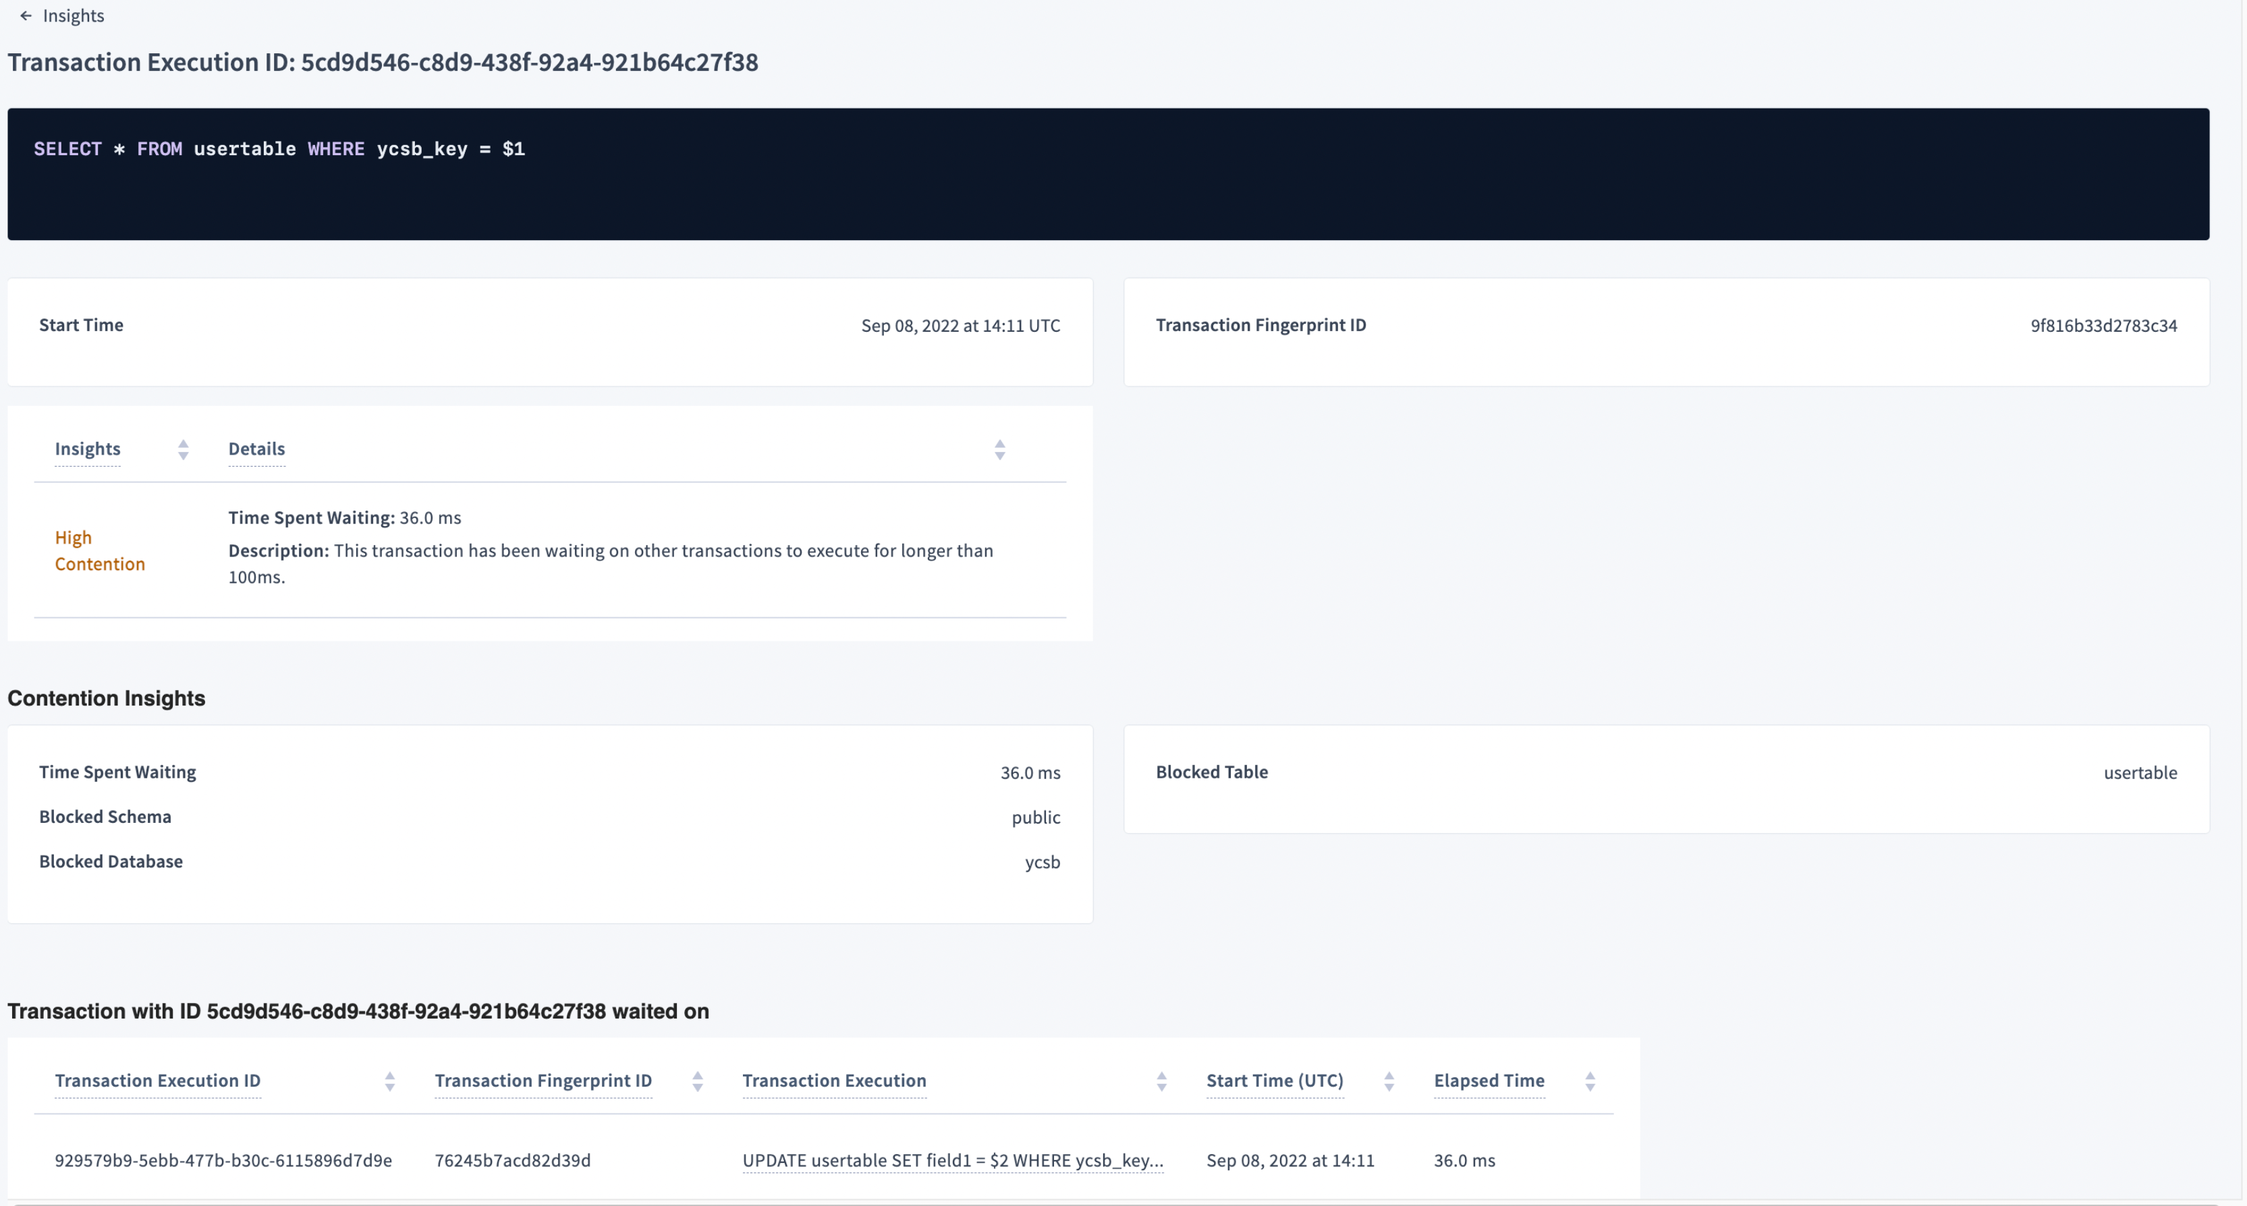
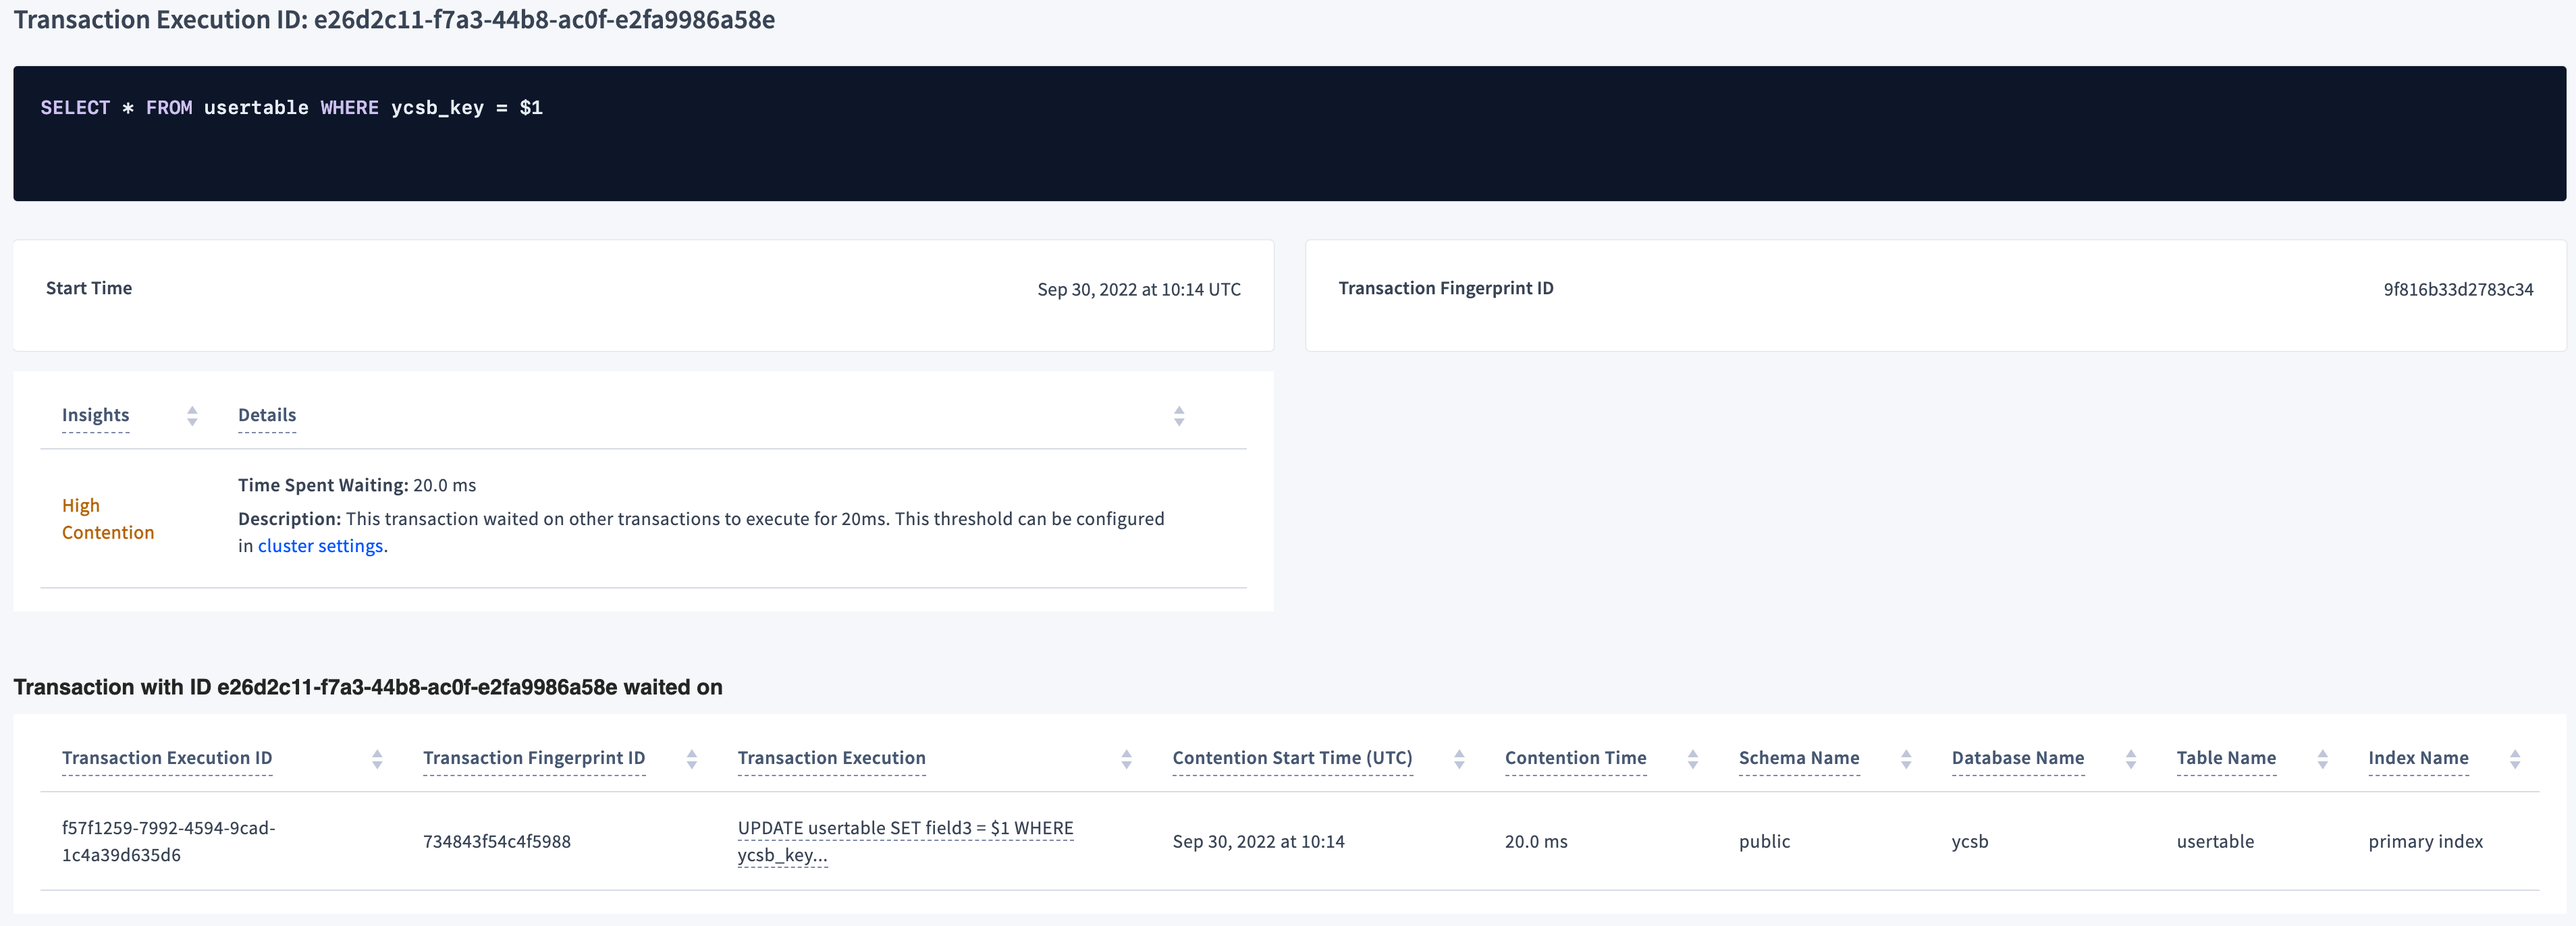
Update transaction execution details.

diff --git a/v22.2/ui-insights-page.md b/v22.2/ui-insights-page.md
@@ -28,7 +28,7 @@ The rows in this page are populated from the [`crdb_internal.transaction_content
 
 Transaction executions with the **High Contention** insight are transactions that experienced [contention](transactions.html#transaction-contention).
 
-- **Transaction Execution ID**: The execution ID of the latest execution with the transaction fingerprint.
+- **Latest Transaction Execution ID**: The execution ID of the latest execution with the transaction fingerprint.
 - **Transaction Fingerprint ID**: The transaction fingerprint ID of the latest transaction execution.
 - **Transaction Execution**: The transaction fingerprint of the latest transaction execution.
 - **Insights**: The insight for the transaction execution.
@@ -37,31 +37,24 @@ Transaction executions with the **High Contention** insight are transactions tha
 - **Contention Time**: The amount of time the transaction execution spent waiting in contention.
 - **Application Name**: The name specified by the [`application_name` session setting](show-vars.html#supported-variables).
 
-The following screenshot shows the execution of a transaction in the [`ycsb`](cockroach-workload.html#run-the-ycsb-workload) workload flagged with **High Contention**:
+The following screenshot shows the execution of a transaction flagged with **High Contention**:
 
 <img src="{{ 'images/v22.2/transaction_execution.png' | relative_url }}" alt="Transaction execution" style="border:1px solid #eee;max-width:100%" />
 
-To view details of the execution, click an execution ID in the **Transaction Execution ID** column.
+To view details of the execution, click an execution ID in the **Latest Transaction Execution ID** column.
 
 #### Transaction execution details
 
-The transaction execution details view provides more details on a transaction execution insight.
+The transaction execution details view provides more details on a transaction execution insight. Additional information includes:
+
+- **Start Time (UTC)**: The time the transaction execution started.
+- **Transaction Fingerprint ID**: The transaction fingerprint ID of the transaction execution.
 
 The following screenshot shows the execution details of the transaction execution in the preceding section:
 
 <img src="{{ 'images/v22.2/transaction_execution_details.png' | relative_url }}" alt="Transaction execution details" style="border:1px solid #eee;max-width:100%" />
 
-Additional details include:
-
-- **Start Time (UTC)**: The time the transaction execution started.
-- **Transaction Fingerprint ID**: The transaction fingerprint ID of the transaction execution.
-
-##### Contention Insights
-
-- **Time Spent Waiting**: The amount of time the transaction execution spent waiting for access to a resource being used by another transaction.
-- **Blocked Schema**: The name of the schema that the transaction attempted to access when it was blocked by another transaction.
-- **Blocked Database**: The name of the database that the transaction attempted to access when it was blocked by another transaction.
-- **Blocked Table**: The name of the table that the transaction attempted to access when it was blocked by another transaction.
+The **Insights** column shows the name of the insight, in this case **High Contention**; the **Details** column provides details on the insight.
 
 ##### Transaction with ID {transaction ID} waited on
 
@@ -69,9 +62,13 @@ This section provides details of the transaction executions that block the trans
 
 - **Transaction Execution ID**: The execution ID of the blocking transaction execution.
 - **Transaction Fingerprint ID**: The transaction fingerprint ID of the blocking transaction execution.
-- **Transaction Execution**: The transaction fingerprint of the blocking transaction execution.
-- **Start Time (UTC)**: The timestamp when the blocking transaction execution started.
-- **Elapsed Time**: The time that elapsed to complete the blocking transaction execution.
+- **Transaction Execution**: The queries attempted in the transaction.
+- **Contention Start Time (UTC)**: The timestamp at which contention was detected for the transaction.
+- **Contention Time**: The time transactions with this execution id was [in contention](performance-best-practices-overview.html#understanding-and-avoiding-transaction-contention) with other transactions within the specified time interval.
+- **Schema Name**: The name of the contended schema.
+- **Database Name**: The name of the contended database.
+- **Table Name**: The name of the contended table.
+- **Index Name**: The name of the contended index.
 
 ### Statement Executions view
 
@@ -110,9 +107,9 @@ The following screenshot shows the statement execution of the query described in
 
 To view details of the execution, click an execution ID in the **Statement Execution ID** column.
 
-#### Statement Execution Details
+#### Statement execution details
 
-The **Statement Execution Details** view provides more details on a statement execution insight. Additional information includes:
+The statement execution details view provides more details on a statement execution insight. Additional information includes:
 
 - **Start Time**: The timestamp when the statement execution started.
 - **End Time**: The timestamp when the statement execution ended.
